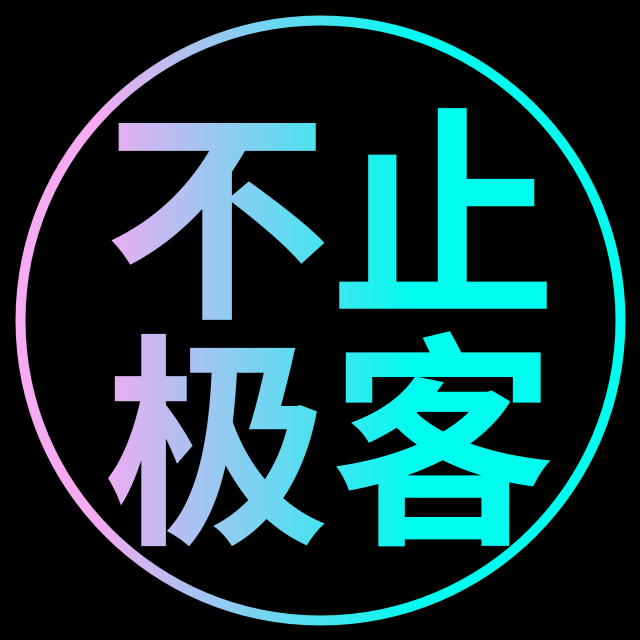
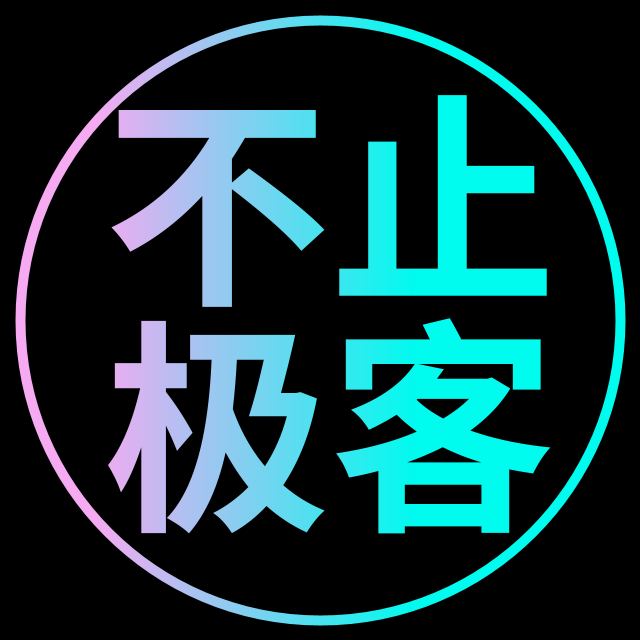
2023-09-04 18:12:39 AutoCommit.sh by Darian

diff --git a/come-tips-demo/src/main/java/com/darian/notgeekicon/IconAvatarUtils.java b/come-tips-demo/src/main/java/com/darian/notgeekicon/IconAvatarUtils.java
@@ -91,11 +91,13 @@ public class IconAvatarUtils {
             fontGraphics.drawString(
                     "不止",
                     (imageWidth - Toolkit.getDefaultToolkit().getFontMetrics(font).stringWidth("不止")) / 2 + 10,
-                    (imageHeight) / 2 - 20
+                    (imageHeight) / 2 - Toolkit.getDefaultToolkit().getFontMetrics(font).getDescent() / 2
             );
             fontGraphics.drawString("极客",
-                    (imageWidth - Toolkit.getDefaultToolkit().getFontMetrics(font).stringWidth("极客")) / 2 + 10
-                    , (imageHeight) / 2 + font.getSize() - 20);
+                    (imageWidth - Toolkit.getDefaultToolkit().getFontMetrics(font).stringWidth("极客")) / 2 + 10,
+                    (imageHeight) / 2 + font.getSize() - Toolkit.getDefaultToolkit().getFontMetrics(font).getDescent() / 2
+            );
+//            System.out.println("Toolkit.getDefaultToolkit().getFontMetrics(font).getDescent(): " + Toolkit.getDefaultToolkit().getFontMetrics(font).getDescent());
 
             Stroke dash = new BasicStroke(10.0f, BasicStroke.CAP_BUTT, BasicStroke.JOIN_ROUND, 3.5f, null, 0f);
             fontGraphics.setStroke(dash);
@@ -103,9 +105,27 @@ public class IconAvatarUtils {
             fontGraphics.drawOval(20, 20, 600, 600);
 
 
+//            font = font.deriveFont(Font.PLAIN, 50);
+//            fontGraphics.setFont(font);
+//            fontGraphics.drawString(
+//                    "nogeek.cn",
+//                    (imageWidth - Toolkit.getDefaultToolkit().getFontMetrics(font).stringWidth("nogeek.cn")) / 2
+//                    ,
+//                    580
+//            );
+//
+//            fontGraphics.drawString(
+//                    "nogeek.cn",
+//                    (imageWidth - Toolkit.getDefaultToolkit().getFontMetrics(font).stringWidth("nogeek.cn")) / 2
+//                    ,
+//                    90
+//            );
+
+
 //            font = font.deriveFont(Font.PLAIN, 20);
 //            fontGraphics.setFont(font);
-//            fontGraphics.drawString("https://notgeek.cn", 420, 630);
+//            fontGraphics.drawString("https://nogeek.cn", 420, 630);
+
             fontGraphics.dispose();
 
             return bufferImage;
